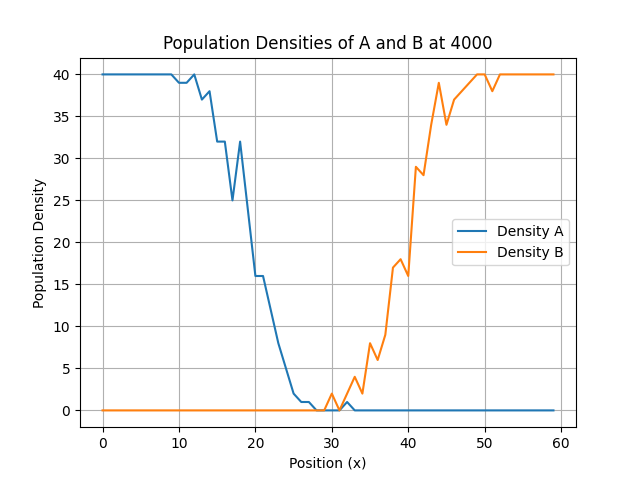
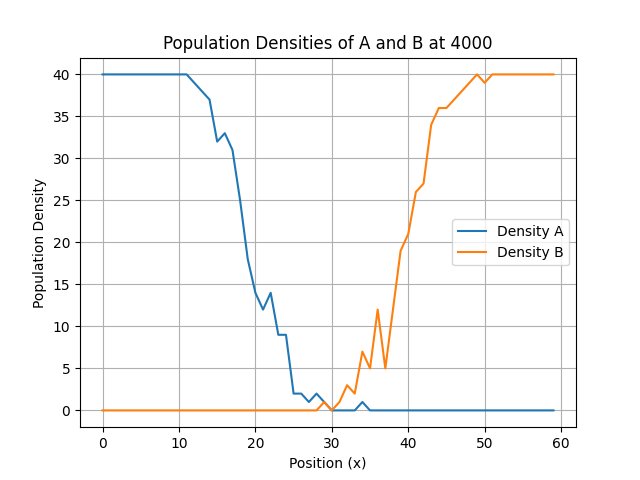
final changes

diff --git a/hw4/gases.py b/hw4/gases.py
@@ -12,7 +12,7 @@ def setup():
     grid[:, :60//3] = 1
     grid[:, -60//3:] = -1
 
-    num_iterations = 10001
+    num_iterations = 1001
     count = 0
     while (count < num_iterations):
         ran_x = random.randint(0, 59)
@@ -56,7 +56,7 @@ def setup():
 
         count = count+1
         
-        if count % 1000 == 0 and moved:
+        if count % 100 == 0 and moved:
             print(count)
             snapshot.append(grid.copy())          
     return snapshot
@@ -76,10 +76,10 @@ def plotDensities(snapshot):
         plt.plot(x, densities[1], label=f'Density B')
         plt.xlabel("Position (x)")
         plt.ylabel("Population Density")
-        plt.title(f"Population Densities of A and B at {k*1000}")
+        plt.title(f"Population Densities of A and B at {k*100}")
         plt.legend()
         plt.grid(True)
-        plt.savefig(f"Density{k*1000}moves.png")
+        plt.savefig(f"Density{k*100}moves.png")
         plt.close()
         # plt.show()
         # Plot snapshots of the grid at each time interval
@@ -90,8 +90,8 @@ def plotDensities(snapshot):
         
         plt.xlabel("X Position")
         plt.ylabel("Y Position")
-        plt.title(f"Grid Configuration at {k*1000}")
-        plt.savefig(f"Grid{k*1000}.png")
+        plt.title(f"Grid Configuration at {k*100}")
+        plt.savefig(f"Grid{k*100}.png")
         plt.close()
         # plt.show()
     return densities
@@ -100,23 +100,13 @@ def plotDensities(snapshot):
 def repeat100():
     averageDensities= []
     counter = 0
-    for i in range(100):
+    for i in range(101):
         snapshots = setup()
         averageDensities.append(plotDensities(snapshots))
     print(len(averageDensities))
     print(len(averageDensities[0]))
     print(len(averageDensities[0][0]))
     print(counter)
-
-    averageArray = np.zeros(2,60)
-    for j in range(60):
-        for i in range(100):
-            averageArray[0][j] = averageDensities[i][0][j]
-            averageArray[1][j] = averageDensities[i][1][j]
-            
-    #     averageArray[0][j] = averageArray[0][j] / 100
-    #     averageArray[1][j] = averageArray[1][j] / 100
-    # return averageArray
 
     averageDensities = np.array(averageDensities)
     averageArray = np.mean(averageDensities, axis=0)
